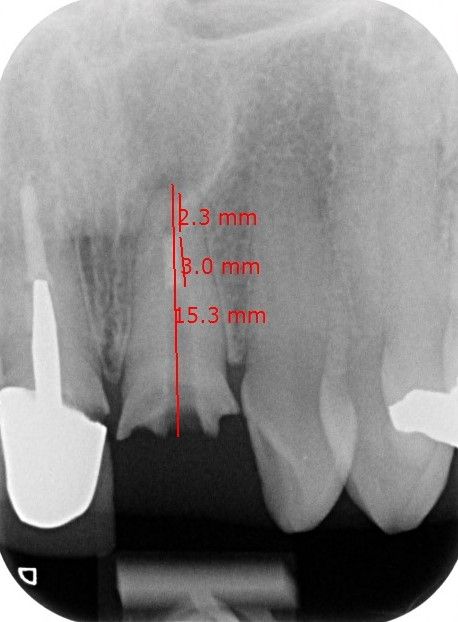
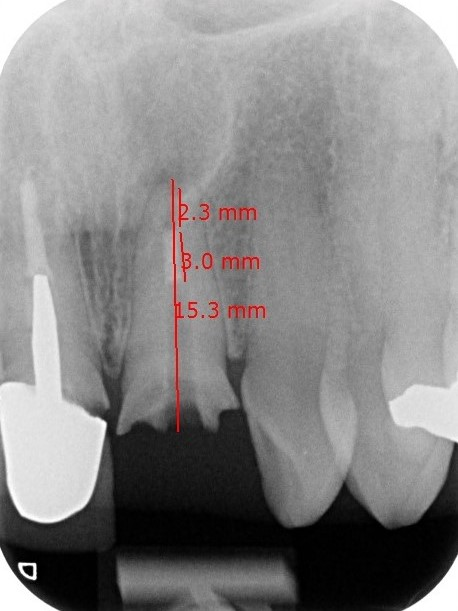
fefef

diff --git a/_treatments/postcrown.md b/_treatments/postcrown.md
@@ -9,7 +9,7 @@ tags: [12,7]
 <div class="row">
   <div class="col-md-6">
     <figure class="figure">
-      <img src="/images/post/final.jpg" class="figure-img img-fluid rounded" alt="...">
+      <img src="/images/post/final1.jpg" class="figure-img img-fluid rounded" alt="...">
       <figcaption class="figure-caption text-center">Periapical showing a mobile UL1 post crown bucally placed. UL1 post crown has been there ~ 10 years.</figcaption>
     </figure>
 
